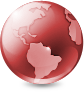
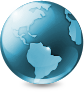
Color de la Pagina
Loco

diff --git a/css/stylelogin.css b/css/stylelogin.css
@@ -3,9 +3,14 @@
 *{margin:0;padding:0;}
 
 body{
-	background:#9A2B2B;
-	/*background:#357;*/
-  /*background:#DDDDFF;*/
+background: rgb(218,219,220); /* Old browsers */
+background: -moz-radial-gradient(center, ellipse cover, rgb(218,219,220) 0%, rgb(188,189,190) 46%, rgb(133,139,143) 100%); /* FF3.6+ */
+background: -webkit-gradient(radial, center center, 0px, center center, 100%, color-stop(0%,rgb(218,219,220)), color-stop(46%,rgb(188,189,190)), color-stop(100%,rgb(133,139,143))); /* Chrome,Safari4+ */
+background: -webkit-radial-gradient(center, ellipse cover, rgb(218,219,220) 0%,rgb(188,189,190) 46%,rgb(133,139,143) 100%); /* Chrome10+,Safari5.1+ */
+background: -o-radial-gradient(center, ellipse cover, rgb(218,219,220) 0%,rgb(188,189,190) 46%,rgb(133,139,143) 100%); /* Opera 12+ */
+background: -ms-radial-gradient(center, ellipse cover, rgb(218,219,220) 0%,rgb(188,189,190) 46%,rgb(133,139,143) 100%); /* IE10+ */
+background: radial-gradient(ellipse at center, rgb(218,219,220) 0%,rgb(188,189,190) 46%,rgb(133,139,143) 100%); /* W3C */
+filter: progid:DXImageTransform.Microsoft.gradient( startColorstr='#dadbdc', endColorstr='#858b8f',GradientType=1 ); /* IE6-9 fallback on horizontal gradient */
   
   font-family:'Open Sans',sans-serif;
 }
@@ -56,7 +61,7 @@ body{
   width:0;
   border-top:12x solid transparent;
   border-right:12px solid transparent;
-  border-bottom:12px solid #FF3333;
+  border-bottom:12px solid #337DC6;
   border-left:12px solid transparent;
   margin:0 auto;
 }
@@ -88,7 +93,7 @@ input[type="text"],input[type="password"]{
 
 input[type="submit"]{
   width:100%;
-  background:#FF3333;
+  background:#337DC6;
   border:0;
   padding:4%;
   font-family:'Open Sans',sans-serif;
@@ -100,5 +105,5 @@ input[type="submit"]{
 }
 
 input[type="submit"]:hover{
-  background:#DF0101;
+  background:#005CB8;
 }

diff --git a/ConsultarDocumento.html b/ConsultarDocumento.html
@@ -168,7 +168,7 @@
 
                                 <table class="table table-striped">
                                     <thead>
-                                        <tr class="danger">
+                                        <tr class="info">
                                             <th>Fecha</th>
                                             <th>Nombre</th>
                                             <th>Código</th>

diff --git a/SolicitudEquipo.html b/SolicitudEquipo.html
@@ -177,7 +177,7 @@
 		                         <form>
 									<table class="table table-striped">
 		                              <thead>
-		                                <tr class="danger">
+		                                <tr class="info">
 		                                  <th>Seleccion</th>
 		                                  <th>Nombre</th>
 		                                  <th>Codigo</th>

diff --git a/SolicitudAula.html b/SolicitudAula.html
@@ -159,7 +159,7 @@
 		                         <form>
 									<table class="table table-striped">
 		                              <thead>
-		                                <tr class="danger">
+		                                <tr class="info">
 		                                  <th>Seleccion</th>
 		                                  <th>Nombre</th>
 		                                 

diff --git a/ConfigRol.html b/ConfigRol.html
@@ -107,7 +107,7 @@
 
                             <table class="table table-striped">
                                 <thead>
-                                <tr class="danger">
+                                <tr class="info">
                                     <th>Editar</th>
                                     <th>Nombre</th>
                                     <th>Seguridad</th>

diff --git a/RespuestaSolicitud.html b/RespuestaSolicitud.html
@@ -114,7 +114,7 @@
 		                        
 									<table class="table table-striped">
 		                              <thead>
-		                                <tr class="danger">
+		                                <tr class="info">
 		                                  <th>Documento</th>
 		                                  <th>Solicitud</th>
 										  <th>Solicitante</th>

diff --git a/ConfigUsuarios.html b/ConfigUsuarios.html
@@ -154,7 +154,7 @@
 
                             <table class="table table-striped">
                               <thead>
-                                <tr class="danger">
+                                <tr class="info">
                                   <th>Editar</th>
                                   <th>Cedula</th>
                                   <th>Nombre</th>
